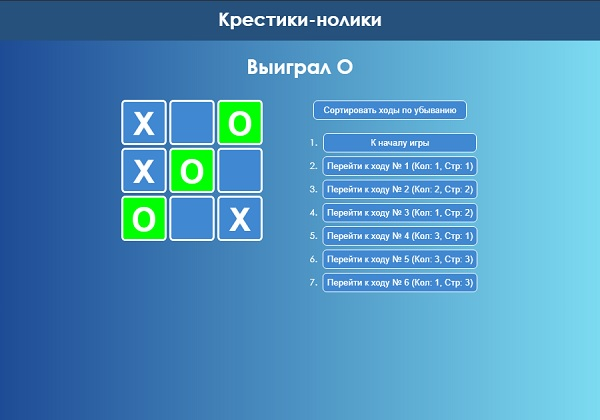
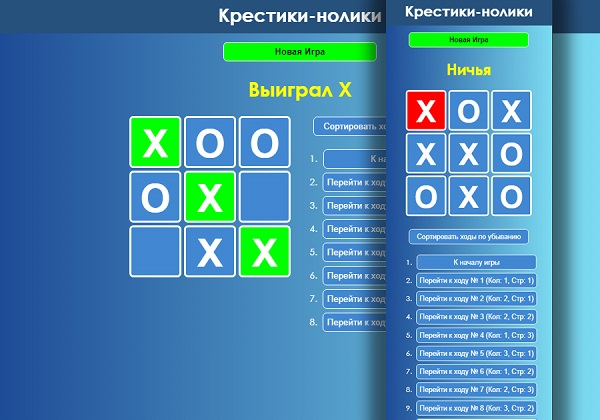
Added game mode selection

diff --git a/src/index.js b/src/index.js
@@ -64,6 +64,7 @@ class Game extends React.Component {
             movesArray: [],
             highlightedMove: null,
             ascendingSequence: true,
+            gameWithComputer: false,
         };
     }
 
@@ -148,6 +149,46 @@ class Game extends React.Component {
         }
     }
 
+    enableGameWithComputer() {
+        this.setState({
+            history: [
+                { 
+                    squares: Array(9).fill(null),
+                    changedSquare: null
+                }
+            ],
+            stepNumber: 0,
+            xIsNext: true,
+            movesArray: [],
+            highlightedMove: null,
+            ascendingSequence: true,
+            gameWithComputer: true,
+        });
+
+        document.querySelector('.player-vs-player').classList.remove('player-active');
+        document.querySelector('.player-vs-computer').classList.add('player-active');
+    }
+
+    enableGameWithPlayer() {
+        this.setState({
+            history: [
+                { 
+                    squares: Array(9).fill(null),
+                    changedSquare: null
+                }
+            ],
+            stepNumber: 0,
+            xIsNext: true,
+            movesArray: [],
+            highlightedMove: null,
+            ascendingSequence: true,
+            gameWithComputer: false,
+        });
+
+        document.querySelector('.player-vs-computer').classList.remove('player-active');
+        document.querySelector('.player-vs-player').classList.add('player-active');
+    }
+
     render() {
         const history = this.state.history;
         const current = history[this.state.stepNumber];
@@ -184,6 +225,17 @@ class Game extends React.Component {
 
         return (
             <div className="game">
+                <div className="type-of-game">
+                    <h3>ВЫБЕРИТЕ РЕЖИМ ИГРЫ:</h3>
+                    <div className="type-of-game-buttons">
+                        <button className="player-vs-player player-active" onClick={() => this.enableGameWithPlayer()}>
+                            Игрок-1 : Игрок-2
+                        </button>
+                        <button className="player-vs-computer" onClick={() => this.enableGameWithComputer()}>
+                            Игрок-1 : Компьютер
+                        </button>
+                    </div>
+                </div>
                 <div className="new-game">
                     <button className="new-game-button" onClick={() => this.jumpTo(0)}>Новая Игра</button>
                 </div>
@@ -196,6 +248,7 @@ class Game extends React.Component {
                         />
                     </div>
                     <div className="game-info">
+                        <h3>ИСТОРИЯ ХОДОВ</h3>
                         <button className="sorting" onClick={() => this.setState({
                             ascendingSequence: !this.state.ascendingSequence,
                         })}>{sequenceOfSteps}</button>

diff --git a/src/index.css b/src/index.css
@@ -27,9 +27,9 @@ body {
   background-size: cover;
 }
 header {
-  height: 60px;
+  height: 50px;
   background-color: #26517C;
-  padding: 10px 0px;
+  padding: 5px 0px;
 }
 header h1 {
   color: #fff;
@@ -104,40 +104,62 @@ ol, ul {
 }
 .game-info button {
   min-width: 230px;
-  border: 1px solid #fff;
+  border: none;
   border-radius: 6px;
-  background: #4188D2;
-  color: #fff;
+  background: #66E275;
+  color: #000;
   margin: 3px;
   padding: 6px;
+  font-weight: bold;
 }
 .game-info button:hover {
   color: #000;
   background-color: #fff;
 }
-.new-game {
+.new-game, .type-of-game {
   display: flex;
   justify-content: center;
+  flex-wrap: wrap;
   padding: 10px;
 }
-.new-game-button {
+.type-of-game {
+  flex-direction: column;
+  align-items: center;
+}
+.type-of-game-buttons {
+  display: flex;
+  justify-content: center;
+  flex-wrap: wrap;
+}
+.new-game-button, .player-vs-player, .player-vs-computer {
   min-width: 230px;
-  border: 1px solid #fff;
+  border: none;
   border-radius: 6px;
-  background: #00ff00;
+  background: #66E275;
   color: #000;
   margin: 3px;
   padding: 6px;
   font-weight: bold;
 }
 .new-game-button:hover {
-  background: #4188D2;
+  background: #fff;
+}
+.player-vs-player, .player-vs-computer {
+  background: #26517C;
   color: #fff;
 }
+.player-vs-player:hover, .player-vs-computer:hover {
+  background: #ff0;
+  color: #000;
+}
+.player-active {
+  background: #ff0;
+  color: #000;
+}
 .game-status {
-  font-size: 30px;
+  font-size: 26px;
   font-weight: bold;
-  margin: 10px 0;
+  margin: 5px 0;
   text-align: center;
   color: #ff0;
 }
